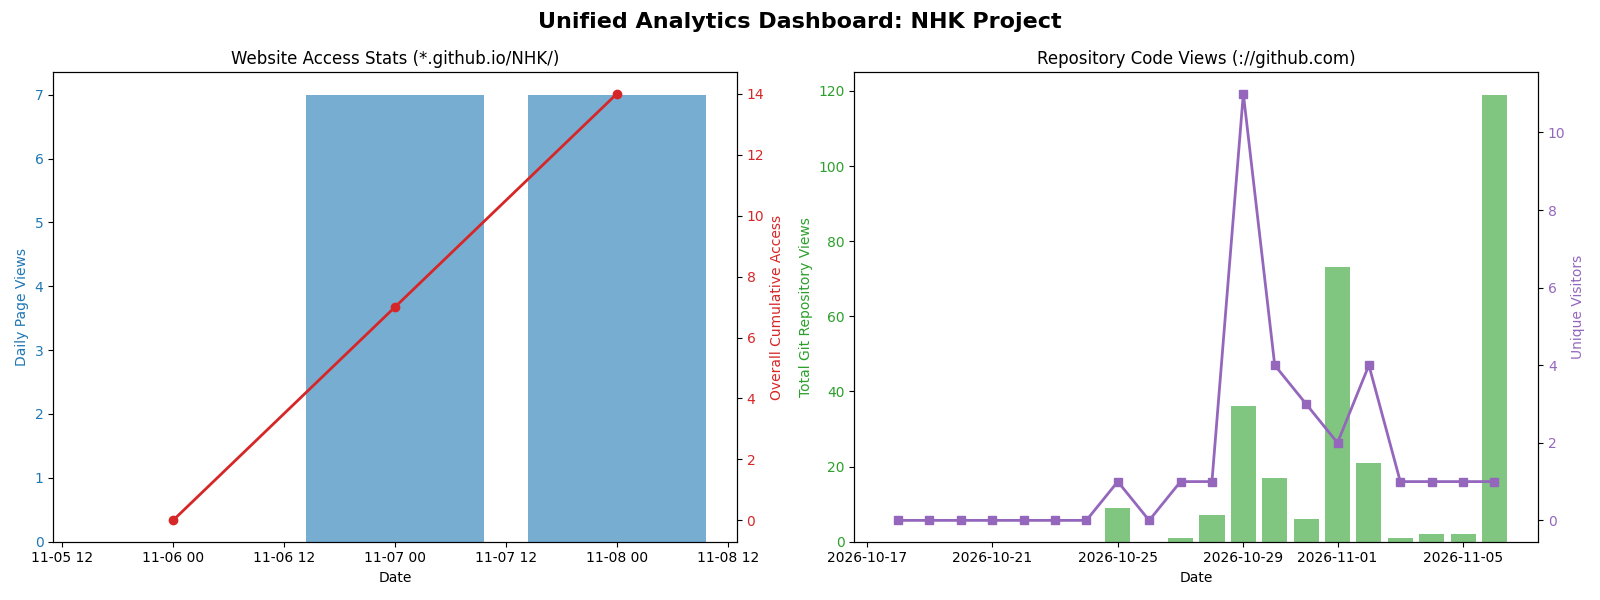
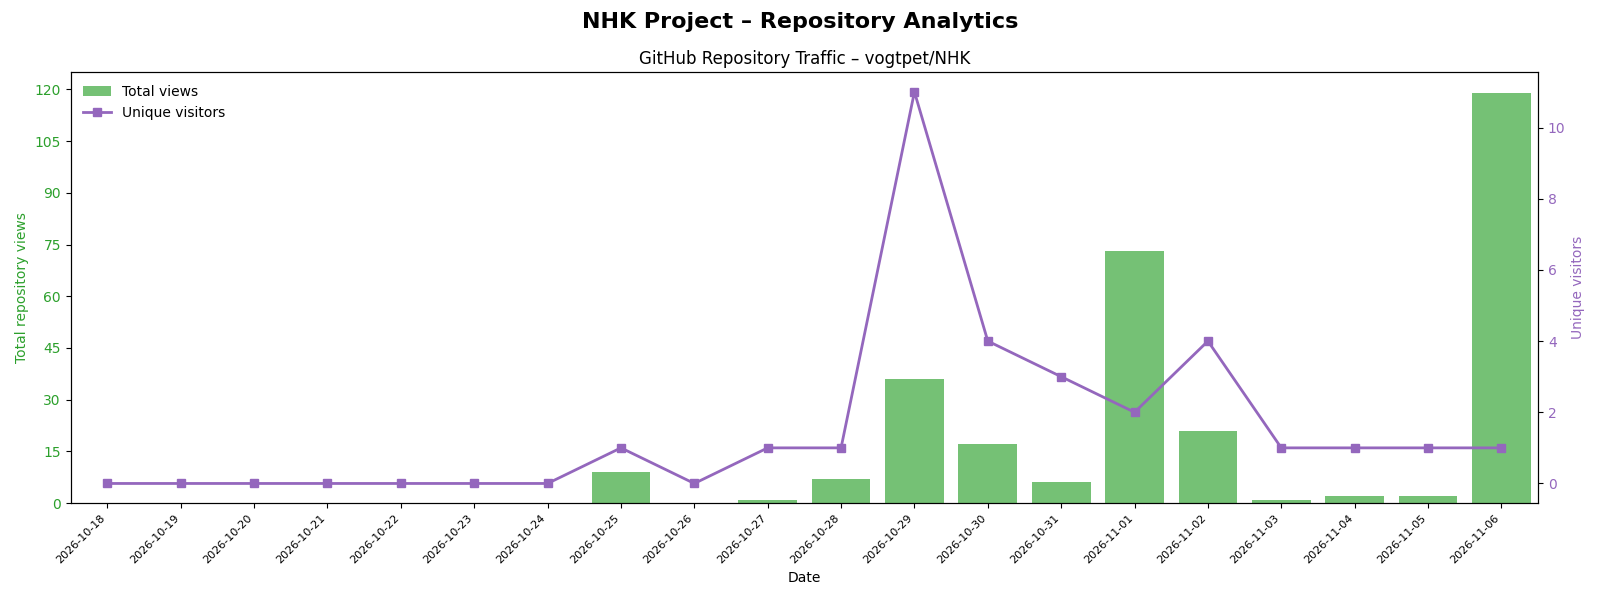
Dashboard: repository traffic only, fix API endpoint and stale data
- remove the visitorbadge/website panel and its workflow step; it no longer
  matched the privacy position and its counter was removed from the site
- single-panel GitHub repository traffic chart with explicit date ticks so
  the last day is labelled, and a corrected title
- fetch repository views from https://api.github.com instead of the web URL
  that returned 404; fail the workflow loudly if the fetch fails
- remove stale traffic/site_traffic.csv, traffic/clones.csv and traffic/plots.png
- fix the github-actions bot e-mail
- README: label the chart as repository traffic

diff --git a/plot_dashboard.py b/plot_dashboard.py
@@ -1,143 +1,97 @@
 import os
+
+import matplotlib
+
+matplotlib.use("Agg")
 import matplotlib.pyplot as plt
 import pandas as pd
+from matplotlib.ticker import MaxNLocator
 
-# Data log source definitions
-SITE_LOG = "traffic/site_traffic.csv"
-REPO_LOG = "traffic/views.csv"  # Your repository views history tracker file
+REPO_LOG = "traffic/views.csv"
 OUTPUT_IMAGE = "unified_dashboard_analytics.png"
 
 
-def load_and_process_data(file_path):
+def load_repo_data(file_path):
     if not os.path.exists(file_path):
         return None
     try:
         df = pd.read_csv(file_path)
-        # Handle variant column headings dynamically
         date_col = [c for c in df.columns if "date" in c.lower()][0]
         df[date_col] = pd.to_datetime(df[date_col])
-        df = df.sort_values(date_col)
-        return df, date_col
-    except Exception as e:
-        print(f"Warning: Error reading {file_path}: {e}")
+        return df.sort_values(date_col), date_col
+    except Exception as exc:
+        print(f"Warning: could not read {file_path}: {exc}")
         return None
 
 
 def generate_dashboard():
-    # Load dataset arrays
-    site_data = load_and_process_data(SITE_LOG)
-    repo_data = load_and_process_data(REPO_LOG)
+    fig, ax = plt.subplots(figsize=(16, 6))
+    data = load_repo_data(REPO_LOG)
 
-    # Initialize side-by-side plot layout frame
-    fig, (ax_site, ax_repo) = plt.subplots(1, 2, figsize=(16, 6))
-
-    # ----------------------------------------------------
-    # LEFT PANEL: Website Access Statistics (vogtpet.github.io/NHK/)
-    # ----------------------------------------------------
-    if site_data is not None:
-        df_site, site_date = site_data
-        df_site["CumulativeViews"] = df_site["DailyViews"].cumsum()
-
-        color = "tab:blue"
-        ax_site.set_xlabel("Date")
-        ax_site.set_ylabel("Daily Page Views", color=color)
-        ax_site.bar(
-            df_site[site_date],
-            df_site["DailyViews"],
-            color=color,
-            alpha=0.6,
-            label="Daily Views",
-        )
-        ax_site.tick_params(axis="y", labelcolor=color)
-
-        ax_site_twin = ax_site.twinx()
-        color = "tab:red"
-        ax_site_twin.set_ylabel("Overall Cumulative Access", color=color)
-        ax_site_twin.plot(
-            df_site[site_date],
-            df_site["CumulativeViews"],
-            color=color,
-            linewidth=2,
-            marker="o",
-            label="Cumulative",
-        )
-        ax_site_twin.tick_params(axis="y", labelcolor=color)
-        ax_site.set_title("Website Access Stats (*.github.io/NHK/)")
-    else:
-        ax_site.text(
+    if data is None:
+        ax.text(
             0.5,
             0.5,
-            f"Website Log Missing\n({SITE_LOG})",
+            f"Repository traffic log missing\n({REPO_LOG})",
             ha="center",
             va="center",
         )
+        ax.set_axis_off()
+    else:
+        df, date_col = data
+        view_col = "count" if "count" in df.columns else df.columns[1]
+        unique_col = "uniques" if "uniques" in df.columns else df.columns[2]
 
-    # ----------------------------------------------------
-    # RIGHT PANEL: GitHub Repository Traffic (://github.com)
-    # ----------------------------------------------------
-    if repo_data is not None:
-        df_repo, repo_date = repo_data
-        # Match standard GitHub repository tracking fields ('count' and 'uniques')
-        view_col = (
-            "count"
-            if "count" in df_repo.columns
-            else ("Views" if "Views" in df_repo.columns else df_repo.columns[1])
+        view_color = "tab:green"
+        ax.bar(
+            df[date_col],
+            df[view_col],
+            color=view_color,
+            alpha=0.65,
+            width=0.8,
+            label="Total views",
         )
-        unique_col = (
-            "uniques"
-            if "uniques" in df_repo.columns
-            else (
-                "Uniques"
-                if "Uniques" in df_repo.columns
-                else df_repo.columns[2]
-            )
-        )
+        ax.set_ylabel("Total repository views", color=view_color)
+        ax.tick_params(axis="y", labelcolor=view_color)
+        ax.yaxis.set_major_locator(MaxNLocator(integer=True))
 
-        color = "tab:green"
-        ax_repo.set_xlabel("Date")
-        ax_repo.set_ylabel("Total Git Repository Views", color=color)
-        ax_repo.bar(
-            df_repo[repo_date],
-            df_repo[view_col],
-            color=color,
-            alpha=0.6,
-            label="Total Views",
-        )
-        ax_repo.tick_params(axis="y", labelcolor=color)
-
-        ax_repo_twin = ax_repo.twinx()
-        color = "tab:purple"
-        ax_repo_twin.set_ylabel("Unique Visitors", color=color)
-        ax_repo_twin.plot(
-            df_repo[repo_date],
-            df_repo[unique_col],
-            color=color,
+        ax_twin = ax.twinx()
+        unique_color = "tab:purple"
+        ax_twin.plot(
+            df[date_col],
+            df[unique_col],
+            color=unique_color,
             linewidth=2,
             marker="s",
-            label="Unique Visitors",
+            label="Unique visitors",
         )
-        ax_repo_twin.tick_params(axis="y", labelcolor=color)
-        ax_repo.set_title("Repository Code Views (://github.com)")
-    else:
-        ax_repo.text(
-            0.5,
-            0.5,
-            f"Repository Log Missing\n({REPO_LOG})",
-            ha="center",
-            va="center",
-        )
+        ax_twin.set_ylabel("Unique visitors", color=unique_color)
+        ax_twin.tick_params(axis="y", labelcolor=unique_color)
+        ax_twin.yaxis.set_major_locator(MaxNLocator(integer=True))
 
-    plt.suptitle(
-        "Unified Analytics Dashboard: NHK Project",
-        fontsize=16,
-        fontweight="bold",
+        # Label every data point so the last day is never missing or shifted.
+        ax.set_xticks(df[date_col])
+        ax.set_xticklabels(
+            df[date_col].dt.strftime("%Y-%m-%d"), rotation=45, ha="right", fontsize=8
+        )
+        ax.set_xlim(
+            df[date_col].min() - pd.Timedelta(hours=12),
+            df[date_col].max() + pd.Timedelta(hours=12),
+        )
+        ax.set_xlabel("Date")
+        ax.set_title("GitHub Repository Traffic – vogtpet/NHK")
+
+        handles, labels = ax.get_legend_handles_labels()
+        twin_handles, twin_labels = ax_twin.get_legend_handles_labels()
+        ax.legend(handles + twin_handles, labels + twin_labels, loc="upper left", frameon=False)
+
+    fig.suptitle(
+        "NHK Project – Repository Analytics", fontsize=16, fontweight="bold"
     )
     fig.tight_layout()
-
-    # Save and display canvas frame
-    plt.savefig(OUTPUT_IMAGE)
-    print(f"Dashboard successfully generated and saved to '{OUTPUT_IMAGE}'.")
-    plt.show()
+    plt.savefig(OUTPUT_IMAGE, dpi=100)
+    plt.close(fig)
+    print(f"Dashboard written to {OUTPUT_IMAGE}")
 
 
 if __name__ == "__main__":

diff --git a/README.md b/README.md
@@ -70,7 +70,7 @@ Dieses E-Book enthält keine Telemetrie, keine Cookies und keine externen Inhalt
 
 ---
 
-## 📊 Live Project Analytics
+## 📊 Repository Traffic
 
-![Project Dashboard Analytics](unified_dashboard_analytics.png)
+![GitHub repository views and unique visitors](unified_dashboard_analytics.png)
 
